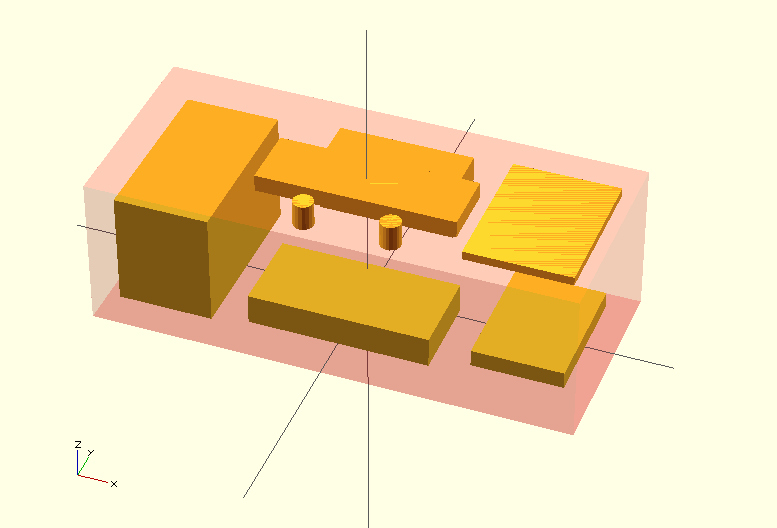
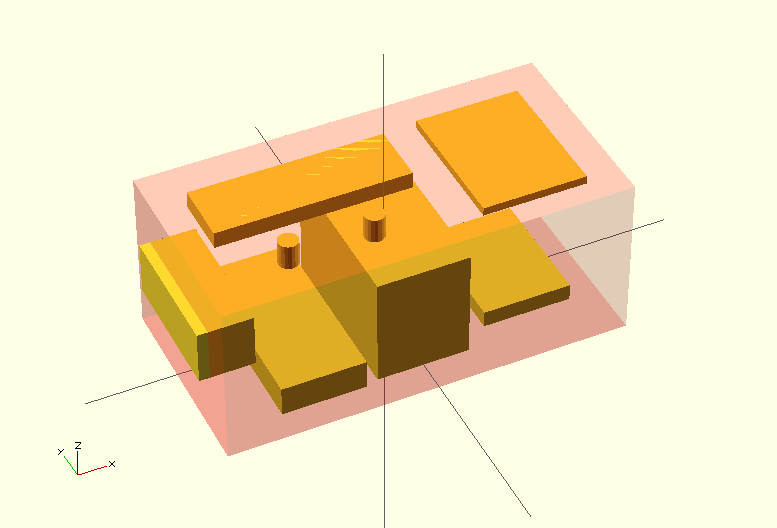
updated for useful case dimensions

diff --git a/README.md b/README.md
@@ -1,7 +1,7 @@
 # Arduino Yun
 
 
-# Hackspace tool logger/lockout
+# Hackspace RFID power switch & usage logger
 
 
 ## Hardware plan
@@ -38,6 +38,17 @@ All measurements in mm and stated as L x W x D
 * RFID = 62 x 82 x ?
 * IEC inlet/outlet/fuse = 32.5 x 79.2 (hole size for 1.5mm panel thickness) x 32.3 depth
 * LCD = 37 x 116 x ?
+
+Modelling the layout led to the following dimensions for the case:
+
+    280 x 120 x 90
+
+But these dimensions didn't yield many cases! So I looked for some common sizes
+and found some that were 240 x 120 x 100mm. Setting the openscad case dimensions
+to these figures allowed me to move things about to check fit.
+
+One decision I made was to keep the PSU and the RFID reader on opposite sides of
+the case, hopefully reducing interferance from the switched mode PSU.
 
 ![case](case.png)
 
